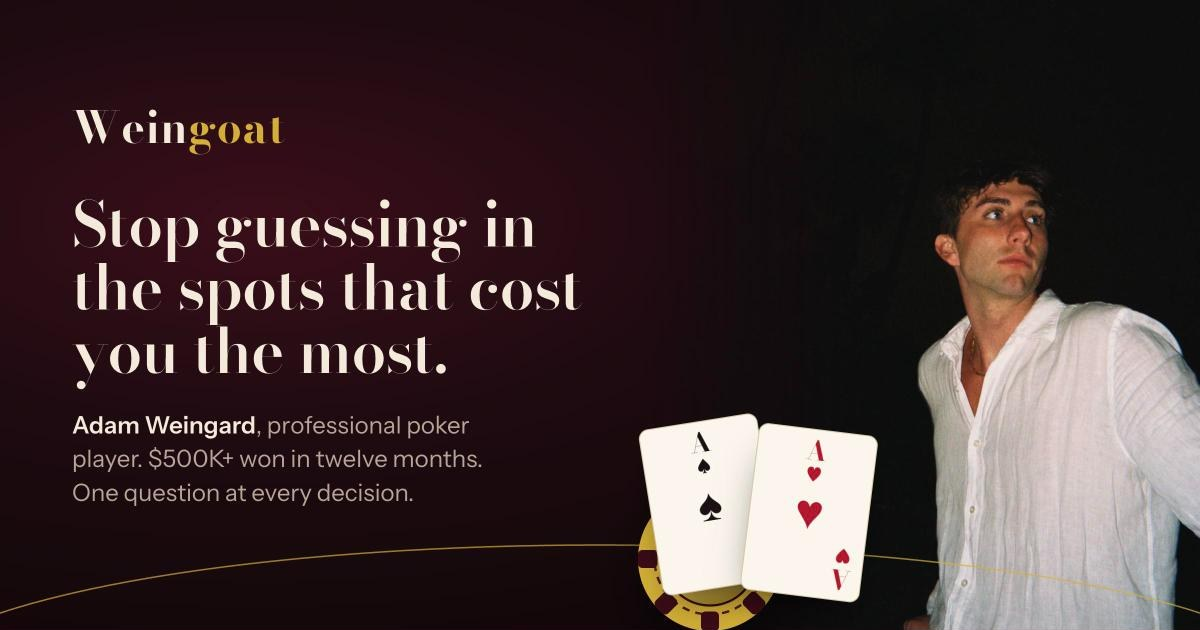
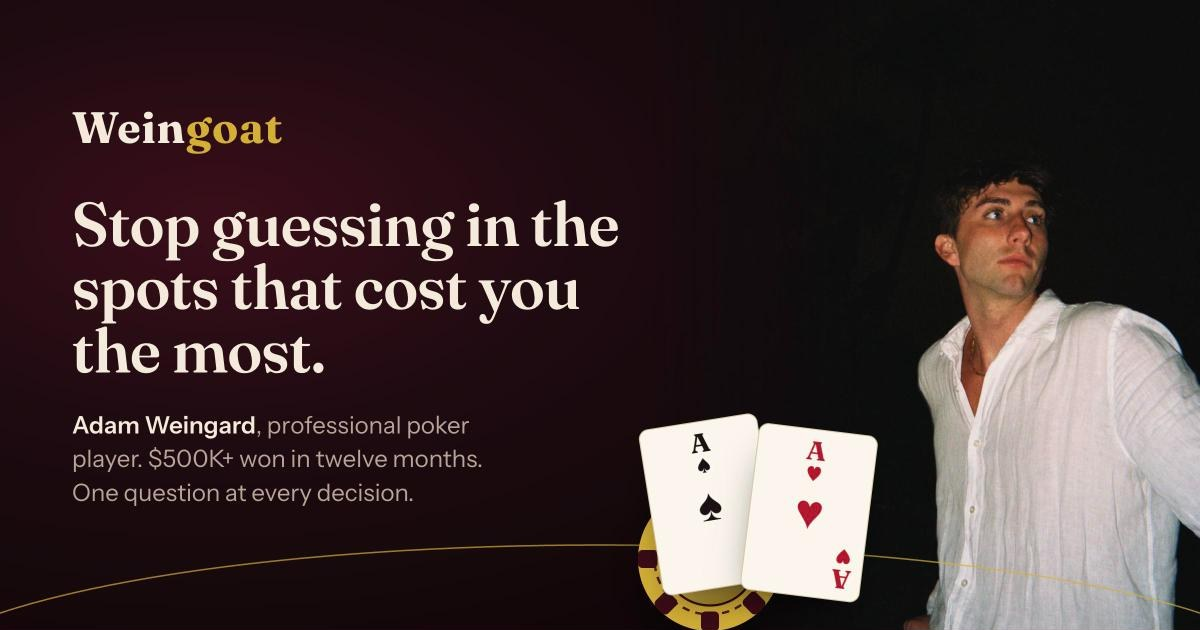
OG image in the new type; remove the internal font test page
Claude-Session: https://claude.ai/code/session_01XjoinyrKyQ8tsTnwrkQt7Z

diff --git a/build.py b/build.py
@@ -72,7 +72,6 @@ PAGES = [
              "isPartOf": {"@id": BASE + "/#website"}, "about": {"@id": BASE + "/#adam"}},
             breadcrumb([("Home", "/"), ("Contact", "/contact")])]),
     dict(slug="og", path="/og", title="Weingoat", description="Share card.", image="/img/og-home.jpg", noindex=True, schema=[], bare=True),
-    dict(slug="fonts", path="/fonts", title="Weingoat type test", description="Internal.", image="/img/og-home.jpg", noindex=True, schema=[], bare=True),
     dict(slug="404", path="/404", title="Page not found | Weingoat", description="That page isn't on the table.",
          image="/img/og-home.jpg", noindex=True, schema=[]),
 ]
@@ -192,7 +191,7 @@ for p in urls:
     sm.append(f"  <url><loc>{loc}</loc><lastmod>{TODAY}</lastmod><changefreq>monthly</changefreq><priority>{pri}</priority>{img}</url>")
 sm.append("</urlset>\n")
 write("sitemap.xml", "\n".join(sm))
-write("robots.txt", f"User-agent: *\nAllow: /\nDisallow: /404\nDisallow: /og\nDisallow: /fonts\n\nSitemap: {BASE}/sitemap.xml\n")
+write("robots.txt", f"User-agent: *\nAllow: /\nDisallow: /404\nDisallow: /og\n\nSitemap: {BASE}/sitemap.xml\n")
 
 # artifact copy of the home page: CSS inline, no doctype/html/head/body (the claude.ai viewer wraps it)
 home = PAGES[0]
